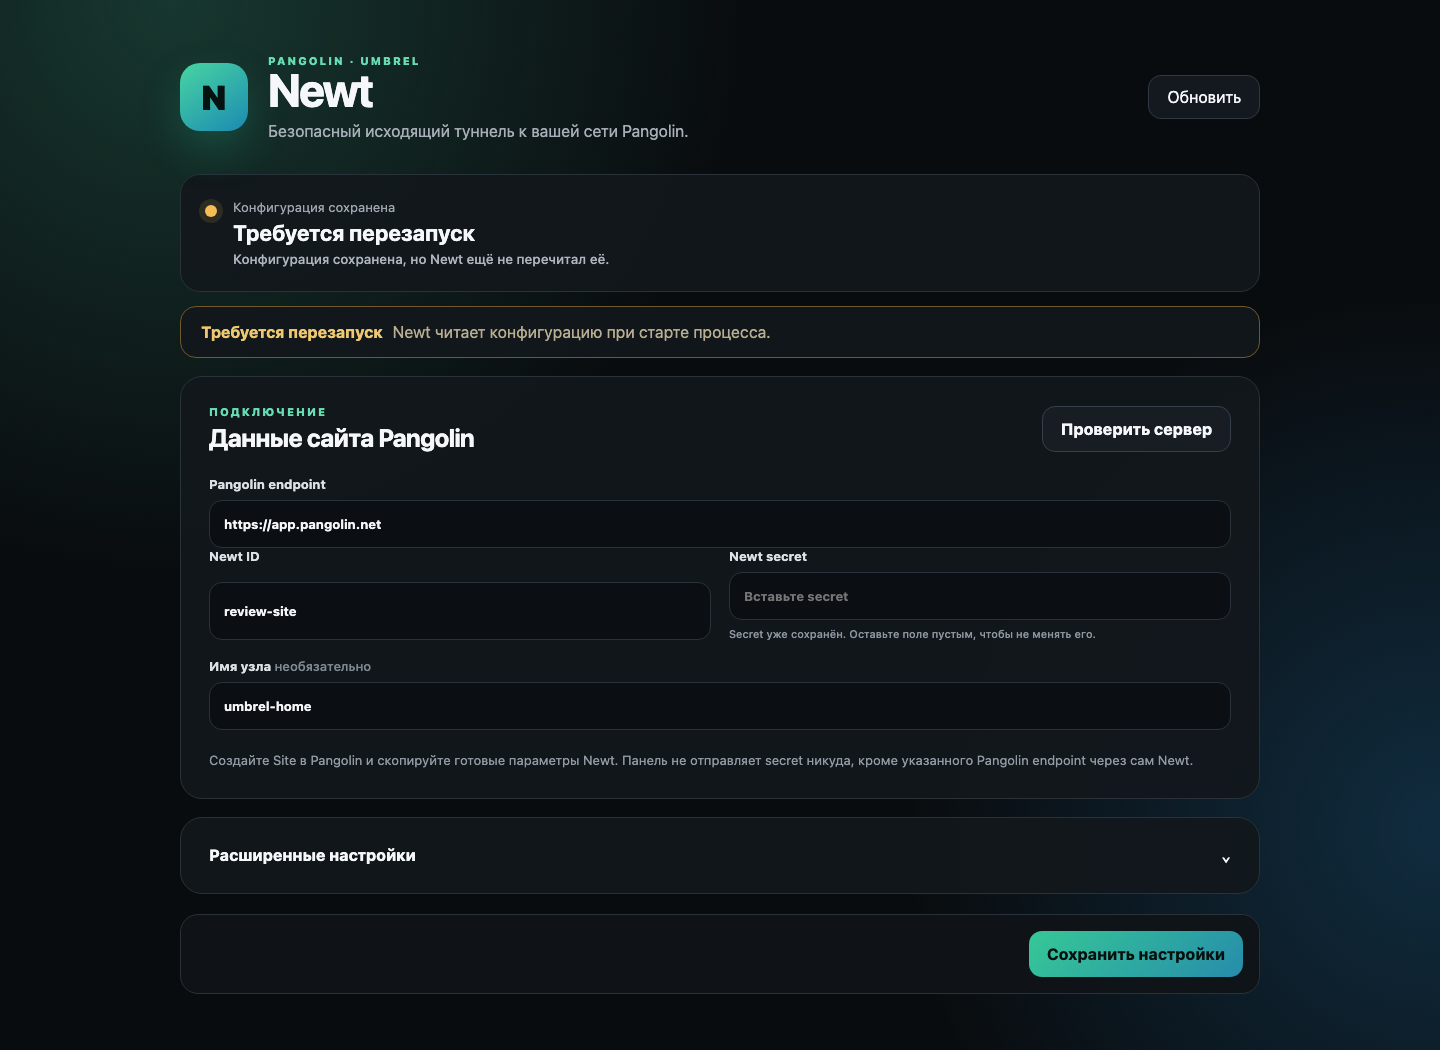
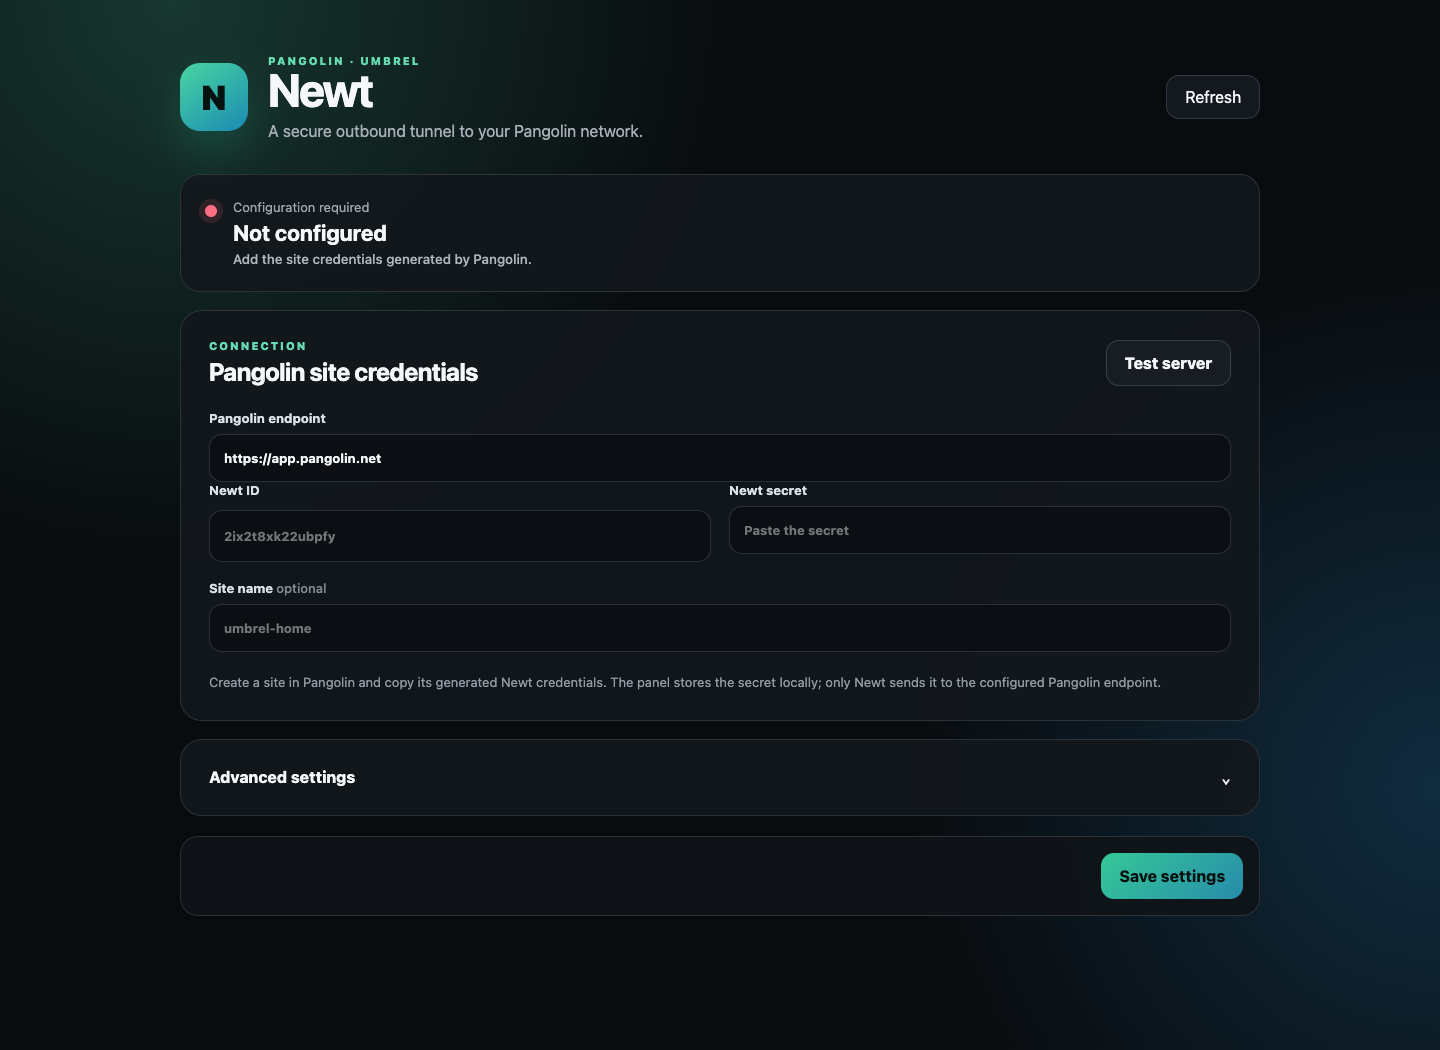
Enable Docker discovery for Newt

diff --git a/epsilon-newt/web/static/index.html b/epsilon-newt/web/static/index.html
@@ -1,5 +1,5 @@
 <!doctype html>
-<html lang="ru">
+<html lang="en">
 <head>
   <meta charset="utf-8">
   <meta name="viewport" content="width=device-width, initial-scale=1">
@@ -11,44 +11,44 @@
   <div class="shell">
     <header>
       <div class="mark" aria-hidden="true">N</div>
-      <div><p class="eyebrow">PANGOLIN · UMBREL</p><h1>Newt</h1><p class="subtitle">Безопасный исходящий туннель к вашей сети Pangolin.</p></div>
-      <button class="ghost" id="refresh" type="button">Обновить</button>
+      <div><p class="eyebrow">PANGOLIN · UMBREL</p><h1>Newt</h1><p class="subtitle">A secure outbound tunnel to your Pangolin network.</p></div>
+      <button class="ghost" id="refresh" type="button">Refresh</button>
     </header>
 
     <section class="status" id="status-card">
       <span class="dot"></span>
-      <div><p id="status-label">Проверяем состояние…</p><strong id="status-title">Загрузка</strong><small id="status-note">Подождите несколько секунд.</small></div>
+      <div><p id="status-label">Checking status…</p><strong id="status-title">Loading</strong><small id="status-note">This should take only a moment.</small></div>
     </section>
 
-    <div class="notice hidden" id="restart-notice"><strong>Требуется перезапуск</strong><span>Newt читает конфигурацию при старте процесса.</span></div>
+    <div class="notice hidden" id="restart-notice"><strong>Restart required</strong><span>Newt reads its configuration when the process starts.</span></div>
 
     <form id="form">
       <section class="panel">
-        <div class="heading"><div><p class="eyebrow">ПОДКЛЮЧЕНИЕ</p><h2>Данные сайта Pangolin</h2></div><button class="secondary" id="test" type="button">Проверить сервер</button></div>
+        <div class="heading"><div><p class="eyebrow">CONNECTION</p><h2>Pangolin site credentials</h2></div><button class="secondary" id="test" type="button">Test server</button></div>
         <label class="wide"><span>Pangolin endpoint</span><input name="endpoint" type="url" required placeholder="https://app.pangolin.net"></label>
         <div class="grid">
           <label><span>Newt ID</span><input name="id" required autocomplete="off" placeholder="2ix2t8xk22ubpfy"></label>
-          <label><span>Newt secret</span><input name="secret" type="password" required autocomplete="new-password" placeholder="Вставьте secret"><small id="secret-hint"></small></label>
+          <label><span>Newt secret</span><input name="secret" type="password" required autocomplete="new-password" placeholder="Paste the secret"><small id="secret-hint"></small></label>
         </div>
-        <label class="wide"><span>Имя узла <em>необязательно</em></span><input name="name" placeholder="umbrel-home"></label>
-        <p class="help">Создайте Site в Pangolin и скопируйте готовые параметры Newt. Панель не отправляет secret никуда, кроме указанного Pangolin endpoint через сам Newt.</p>
+        <label class="wide"><span>Site name <em>optional</em></span><input name="name" placeholder="umbrel-home"></label>
+        <p class="help">Create a site in Pangolin and copy its generated Newt credentials. The panel stores the secret locally; only Newt sends it to the configured Pangolin endpoint.</p>
       </section>
 
       <details class="panel">
-        <summary>Расширенные настройки <span>⌄</span></summary>
+        <summary>Advanced settings <span>⌄</span></summary>
         <div class="advanced grid">
           <label><span>DNS</span><input name="dns" required></label>
-          <label><span>Уровень логов</span><select name="logLevel"><option>DEBUG</option><option>INFO</option><option>WARN</option><option>ERROR</option></select></label>
+          <label><span>Log level</span><select name="logLevel"><option>DEBUG</option><option>INFO</option><option>WARN</option><option>ERROR</option></select></label>
           <label><span>Ping interval</span><input name="pingInterval" required></label>
           <label><span>Ping timeout</span><input name="pingTimeout" required></label>
           <label><span>UDP idle timeout</span><input name="udpProxyIdleTimeout" required></label>
-          <label class="toggle"><input name="enforceHcCert" type="checkbox"><span>Проверять TLS-сертификаты health checks</span></label>
-          <label class="toggle"><input name="disableClients" type="checkbox"><span>Отключить клиентские туннели</span></label>
-          <label class="toggle"><input name="disableSsh" type="checkbox"><span>Отключить SSH-функции</span></label>
+          <label class="toggle"><input name="enforceHcCert" type="checkbox"><span>Verify health-check TLS certificates</span></label>
+          <label class="toggle"><input name="disableClients" type="checkbox"><span>Disable client tunnels</span></label>
+          <label class="toggle"><input name="disableSsh" type="checkbox"><span>Disable SSH features</span></label>
         </div>
       </details>
 
-      <div class="actions"><p id="result" aria-live="polite"></p><button class="primary" id="save" type="submit">Сохранить настройки</button></div>
+      <div class="actions"><p id="result" aria-live="polite"></p><button class="primary" id="save" type="submit">Save settings</button></div>
     </form>
   </div>
   <script src="/app.js" defer></script>

diff --git a/epsilon-newt/web/static/app.js b/epsilon-newt/web/static/app.js
@@ -4,10 +4,10 @@ const saveButton = document.querySelector("#save");
 const restartNotice = document.querySelector("#restart-notice");
 
 const states = {
-  configuration_required: ["bad", "Не настроено", "Добавьте параметры Site из Pangolin."],
-  restart_required: ["warn", "Требуется перезапуск", "Конфигурация сохранена, но Newt ещё не перечитал её."],
-  connecting: ["warn", "Ожидание туннеля", "Проверьте ID, secret и журнал Newt, если состояние долго не меняется."],
-  connected: ["good", "Туннель подключён", "Newt установил соединение с Pangolin."],
+  configuration_required: ["bad", "Not configured", "Add the site credentials generated by Pangolin."],
+  restart_required: ["warn", "Restart required", "The configuration is saved, but Newt has not reloaded it yet."],
+  connecting: ["warn", "Waiting for tunnel", "Check the ID, secret, and Newt logs if this state persists."],
+  connected: ["good", "Tunnel connected", "Newt is connected to Pangolin."],
 };
 
 async function api(path, options = {}) {
@@ -36,7 +36,7 @@ async function loadConfig() {
   }
   const secret = form.elements.namedItem("secret");
   secret.required = !payload.secret_set;
-  document.querySelector("#secret-hint").textContent = payload.secret_set ? "Secret уже сохранён. Оставьте поле пустым, чтобы не менять его." : "";
+  document.querySelector("#secret-hint").textContent = payload.secret_set ? "A secret is already saved. Leave this blank to keep it unchanged." : "";
 }
 
 async function loadState() {
@@ -45,7 +45,7 @@ async function loadState() {
     const copy = states[payload.state] || states.configuration_required;
     const card = document.querySelector("#status-card");
     card.className = `status ${copy[0]}`;
-    document.querySelector("#status-label").textContent = payload.configured ? "Конфигурация сохранена" : "Требуется конфигурация";
+    document.querySelector("#status-label").textContent = payload.configured ? "Configuration saved" : "Configuration required";
     document.querySelector("#status-title").textContent = copy[1];
     document.querySelector("#status-note").textContent = copy[2];
     restartNotice.classList.toggle("hidden", !payload.restart_required);
@@ -59,7 +59,7 @@ form.addEventListener("submit", async (event) => {
   event.preventDefault();
   if (!form.reportValidity()) return;
   saveButton.disabled = true;
-  result.textContent = "Сохраняем…";
+  result.textContent = "Saving…";
   result.className = "";
   try {
     const payload = await api("/api/config", { method: "POST", body: JSON.stringify(collect()) });

diff --git a/epsilon-newt/web/app.py b/epsilon-newt/web/app.py
@@ -74,9 +74,9 @@ def public_config() -> dict[str, Any]:
 def validate_url(value: str) -> str:
     parsed = urllib.parse.urlsplit(value.strip())
     if parsed.scheme not in {"http", "https"} or not parsed.netloc:
-        raise ValueError("Укажите полный адрес Pangolin с http:// или https://")
+        raise ValueError("Enter the full Pangolin URL, including http:// or https://")
     if parsed.query or parsed.fragment:
-        raise ValueError("Адрес Pangolin не должен содержать параметры или фрагмент")
+        raise ValueError("The Pangolin URL must not contain a query string or fragment")
     return value.rstrip("/")
 
 
@@ -84,7 +84,7 @@ def validate_duration(name: str, value: str) -> str:
     import re
 
     if not re.fullmatch(r"(?:\d+(?:\.\d+)?(?:ns|us|µs|ms|s|m|h))+", value):
-        raise ValueError(f"{name}: неверный интервал; пример: 15s или 1m30s")
+        raise ValueError(f"{name}: invalid duration; use a value such as 15s or 1m30s")
     return value
 
 
@@ -105,9 +105,9 @@ def validate_payload(payload: dict[str, Any], existing: dict[str, Any]) -> dict[
     config["endpoint"] = validate_url(str(config["endpoint"]))
     for key in ("id", "secret"):
         if not str(config.get(key, "")).strip():
-            raise ValueError(f"Не заполнено обязательное поле: {key}")
+            raise ValueError(f"Required field is missing: {key}")
     if str(config["logLevel"]).upper() not in {"DEBUG", "INFO", "WARN", "ERROR"}:
-        raise ValueError("Уровень логов должен быть DEBUG, INFO, WARN или ERROR")
+        raise ValueError("Log level must be DEBUG, INFO, WARN, or ERROR")
     config["logLevel"] = str(config["logLevel"]).upper()
     for key in DURATION_FIELDS:
         config[key] = validate_duration(key, str(config[key]))
@@ -169,8 +169,8 @@ def test_endpoint(payload: dict[str, Any]) -> dict[str, Any]:
     except urllib.error.HTTPError as exc:
         code = exc.code
     if code >= 500:
-        raise ValueError(f"Pangolin отвечает с ошибкой HTTP {code}")
-    return {"ok": True, "message": f"Pangolin доступен (HTTP {code}). ID и secret проверит Newt после перезапуска."}
+        raise ValueError(f"Pangolin returned HTTP {code}")
+    return {"ok": True, "message": f"Pangolin is reachable (HTTP {code}). Newt will verify the ID and secret after restart."}
 
 
 class Handler(BaseHTTPRequestHandler):
@@ -208,13 +208,13 @@ class Handler(BaseHTTPRequestHandler):
 
     def read_json(self) -> dict[str, Any]:
         if self.headers.get_content_type() != "application/json":
-            raise ValueError("Требуется Content-Type: application/json")
+            raise ValueError("Content-Type must be application/json")
         length = int(self.headers.get("Content-Length", "0"))
         if length < 1 or length > 32768:
-            raise ValueError("Некорректный размер запроса")
+            raise ValueError("Invalid request size")
         payload = json.loads(self.rfile.read(length))
         if not isinstance(payload, dict):
-            raise ValueError("Ожидался JSON-объект")
+            raise ValueError("Expected a JSON object")
         return payload
 
     def do_GET(self) -> None:
@@ -245,7 +245,7 @@ class Handler(BaseHTTPRequestHandler):
                 global restart_required
                 with LOCK:
                     restart_required = True
-                self.send_json({"ok": True, "message": "Настройки сохранены. Перезапустите Newt в Umbrel.", "restart_required": True})
+                self.send_json({"ok": True, "message": "Settings saved. Restart Newt from Umbrel to apply them.", "restart_required": True})
                 return
             if path == "/api/test":
                 self.send_json(test_endpoint(payload))
@@ -254,9 +254,9 @@ class Handler(BaseHTTPRequestHandler):
         except (ValueError, json.JSONDecodeError) as exc:
             self.send_json({"ok": False, "error": str(exc)}, HTTPStatus.BAD_REQUEST)
         except (OSError, urllib.error.URLError) as exc:
-            self.send_json({"ok": False, "error": f"Ошибка соединения или записи: {exc}"}, HTTPStatus.BAD_GATEWAY)
+            self.send_json({"ok": False, "error": f"Connection or write error: {exc}"}, HTTPStatus.BAD_GATEWAY)
         except Exception:
-            self.send_json({"ok": False, "error": "Внутренняя ошибка панели. Проверьте журнал UI."}, HTTPStatus.INTERNAL_SERVER_ERROR)
+            self.send_json({"ok": False, "error": "Internal panel error. Check the UI container logs."}, HTTPStatus.INTERNAL_SERVER_ERROR)
 
 
 def main() -> None:

diff --git a/epsilon-newt/web/tests/test_app.py b/epsilon-newt/web/tests/test_app.py
@@ -55,11 +55,11 @@ class NewtConfigTests(unittest.TestCase):
     def test_validation_rejects_bad_endpoint_and_duration(self):
         payload = self.payload()
         payload["endpoint"] = "pangolin.example.com"
-        with self.assertRaisesRegex(ValueError, "полный адрес"):
+        with self.assertRaisesRegex(ValueError, "full Pangolin URL"):
             app.validate_payload(payload, {})
         payload = self.payload()
         payload["pingInterval"] = "soon"
-        with self.assertRaisesRegex(ValueError, "неверный интервал"):
+        with self.assertRaisesRegex(ValueError, "invalid duration"):
             app.validate_payload(payload, {})
 
     def test_connected_state_uses_upstream_health_file(self):

diff --git a/epsilon-newt/README.md b/epsilon-newt/README.md
@@ -18,13 +18,29 @@ not returned to the browser after saving.
 
 ## Publish Umbrel services
 
-Configure resources and access policies in Pangolin. From the Newt container,
-use an address that is reachable over the local network, such as the Umbrel
-host name and the service's published port. `127.0.0.1` refers to the Newt
-container itself, not to the Umbrel host.
+Open the site's resource editor in Pangolin and use Docker discovery to select
+an Umbrel container. Newt reports only containers that share its Umbrel network,
+so the listed container names and private ports are reachable from Newt. In most
+cases, select an app's `app_proxy` container and its HTTP port; this preserves
+the app's normal proxy routing instead of exposing a database or other internal
+service directly.
 
-Newt does not receive the Docker socket, host networking, privileged mode, or
-additional Linux capabilities. It creates its WireGuard tunnel in userspace.
+Containers on isolated application-only networks are intentionally omitted.
+For services published on the Umbrel host, you can still enter the Umbrel host
+name and published port manually. `127.0.0.1` refers to the Newt container, not
+to the Umbrel host.
+
+Newt does not receive the Docker socket directly. A separate socket proxy gives
+it read-only access to the container list, container metadata, and Docker event
+stream. Mutating requests, exec, logs, process lists, archives, and filesystem
+exports are denied. The proxy has no network interface and exposes its filtered
+API only through a private Unix socket mounted into Newt. It is not reachable
+from other Umbrel applications or the LAN and does not appear as a publishable
+container in Pangolin. Container metadata can still contain sensitive operational
+information, so enable only resources that you intend to publish through Pangolin.
+
+Newt does not use host networking, privileged mode, or additional Linux
+capabilities. It creates its WireGuard tunnel in userspace.
 
 ## Backups and removal
 

diff --git a/README.md b/README.md
@@ -36,7 +36,7 @@ trusting their upstream developers.
 | [Emby](epsilon-emby) | Media | Personal media server for organising and streaming movies, TV shows, music, photos, and home videos. | [MediaBrowser/Emby](https://github.com/MediaBrowser/Emby) |
 | [Ente Photos](epsilon-ente-photos) | Files | End-to-end encrypted photo and video backup with self-hosted web apps, API, database, and object storage. | [ente/ente](https://github.com/ente/ente) |
 | [LocalCA](epsilon-localca) | Networking | Private certificate authority for issuing internal TLS and mutual-TLS certificates on x86-64 Umbrel systems. | [tgangte/LocalCA](https://github.com/tgangte/LocalCA) |
-| [Newt](epsilon-newt) | Networking | Userspace WireGuard connector that links an Umbrel to a Pangolin network without opening inbound ports. | [fosrl/newt](https://github.com/fosrl/newt) |
+| [Newt](epsilon-newt) | Networking | Userspace WireGuard connector with Pangolin discovery for containers on the shared Umbrel network. | [fosrl/newt](https://github.com/fosrl/newt) |
 | [Pocket ID](epsilon-pocket-id) | Networking | Passkey-only OpenID Connect provider with a local trusted-HTTPS setup powered by Caddy. | [pocket-id/pocket-id](https://github.com/pocket-id/pocket-id) |
 | [Suwayomi](epsilon-suwayomi) | Media | Browser-based manga server and reader compatible with Mihon/Tachiyomi extensions. | [Suwayomi/Suwayomi-Server](https://github.com/Suwayomi/Suwayomi-Server) |
 
